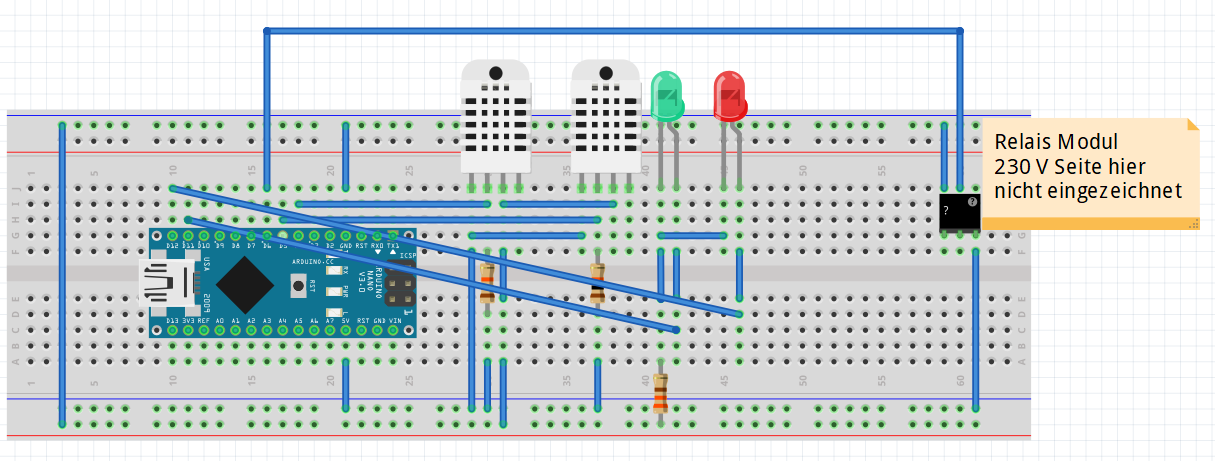
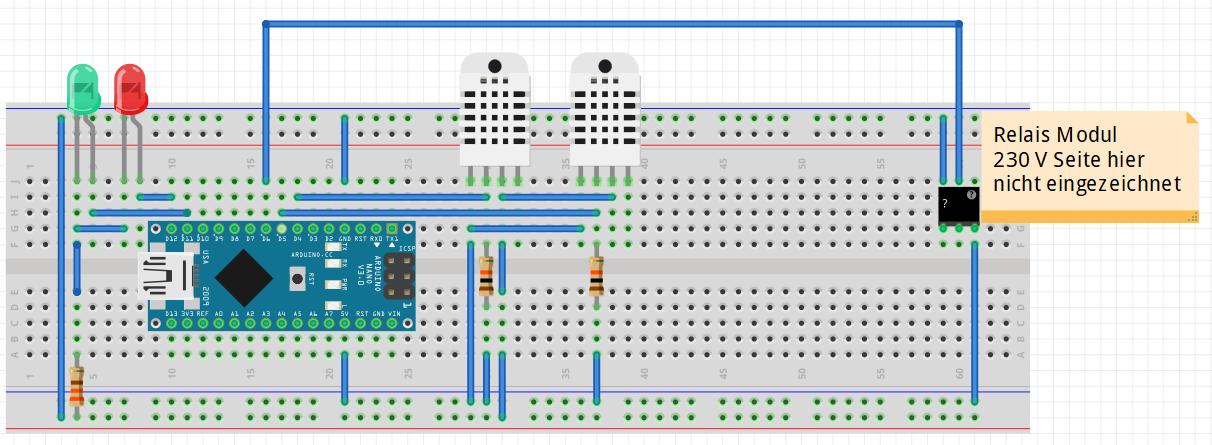
update

Changed region(s): [[0.0, 0.0292, 1.0, 0.9933]]

diff --git a/README.md b/README.md
@@ -12,7 +12,7 @@ Der Code befindet sich im Verzeichnis TaupunktLueftungEinfach
 
 Teileliste:
 - 2 x Widerstand 10 kOhm
-- 2 x Widerstand 330 Ohm
+- 1 x Widerstand 330 Ohm
 - 2 x DHT22
 - 1 x Leuchtdiode rot
 - 1 x Leuchtdiode grün
